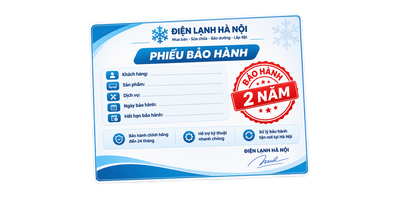
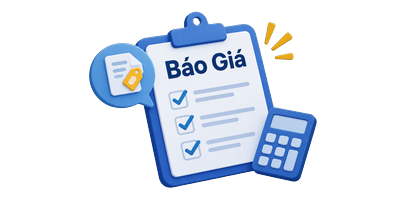
fix: cập nhật ảnh Báo Giá 3D mới cho Bước 3 trong Quy trình làm việc

Changed region(s): [[0.21, 0.06, 0.81, 0.96]]

diff --git a/.agents/replace_step_3.py b/.agents/replace_step_3.py
@@ -1,0 +1,41 @@
+import os
+from PIL import Image
+
+src_path = 'C:/Users/quyth/.gemini/antigravity/brain/40163d84-5334-4e65-be0b-989343542a7f/.user_uploaded/media_1794634267817_83fefa92.png'
+dest_path = 'assets/asset-pack/composite_step_3.png'
+dest_orig = 'assets/asset-pack/step-3-bao-gia-original.png'
+
+# Open uploaded image
+img = Image.open(src_path).convert('RGBA')
+
+# Save original copy in asset-pack
+img.save(dest_orig, 'PNG')
+print(f"Saved original image to {dest_orig} ({img.size})")
+
+# Crop tight bounding box
+bbox = img.getbbox()
+cropped = img.crop(bbox)
+
+# Create 400x200 canvas (matching other composite_step_*.png)
+canvas_w, canvas_h = 400, 200
+canvas = Image.new('RGBA', (canvas_w, canvas_h), (0, 0, 0, 0))
+
+# Target height ~ 180 to fit harmoniously with step 1, 2, 4, 5, 6
+target_h = 180
+target_w = int(cropped.width * (target_h / cropped.height))
+
+# In case target_w > canvas_w - 20, scale down proportionally
+if target_w > canvas_w - 20:
+    target_w = canvas_w - 20
+    target_h = int(cropped.height * (target_w / cropped.width))
+
+resized = cropped.resize((target_w, target_h), Image.Resampling.LANCZOS)
+
+# Center on canvas
+paste_x = (canvas_w - target_w) // 2
+paste_y = (canvas_h - target_h) // 2
+canvas.paste(resized, (paste_x, paste_y), resized)
+
+# Save to composite_step_3.png
+canvas.save(dest_path, 'PNG')
+print(f"Successfully updated {dest_path} with 400x200 composite (target size: {target_w}x{target_h})")
